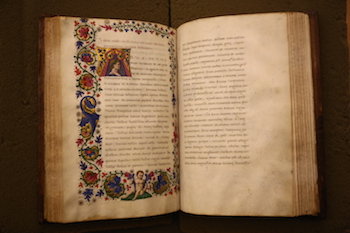
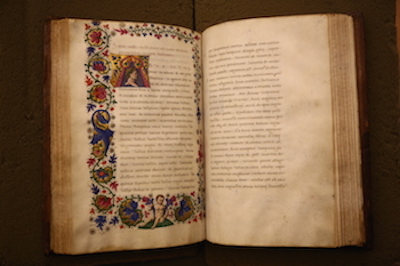
see ya

diff --git a/index.html b/index.html
@@ -213,8 +213,10 @@ Former UO President Gottfredson purchased the collection to fund its preservatio
     <div id="scrp">
 <img id="shep" src="img/book1.JPG">
 <img id="bir" src="img/book2.JPG">
+<img id="bir" src="img/book4.JPG">
+<img id="bir" src="img/book3.JPG">
 </div>
-<p>
+<aside>
 You walk into special collections and you ask the librarian to see one of the oldest items the library has. The librarian walks into the back room and returns with a peculiar looking box. It is placed gently on a table, and you open it to find an old and tattered looking book. It isn't like anything you’ve seen before. It’s a Bible that is from the Medieval era. You marvel at the writing only to later to discover that what appears to be typed is merely hand written. 
 <br>
 <br>
@@ -248,7 +250,7 @@ Any person can look at the books, and they are commonly used by student who wish
 “The thing to remember is that these things are quite valuable, but they were valuable in their day,” said Tabb.
 <br>
 <br>
-</p>
+</aside>
     </div>
 </div> <!-- end row -->
 

diff --git a/css/style.css b/css/style.css
@@ -311,8 +311,12 @@ aside {
 #scrp {
     float: right;
     width: 50%;
-    margin-left: 5%;
-    margin-top: 3%;
+    
+    margin-top: 12%;
+}
+
+#bir {
+    margin-top: 5%;
 }
 
 #stry6 {
@@ -321,7 +325,7 @@ aside {
     width: 80%;
     height: 70%;
     padding-left: 7%;
-    padding-right: 15%;
+    padding-right: 6%;
     overflow: scroll;
 }
 
